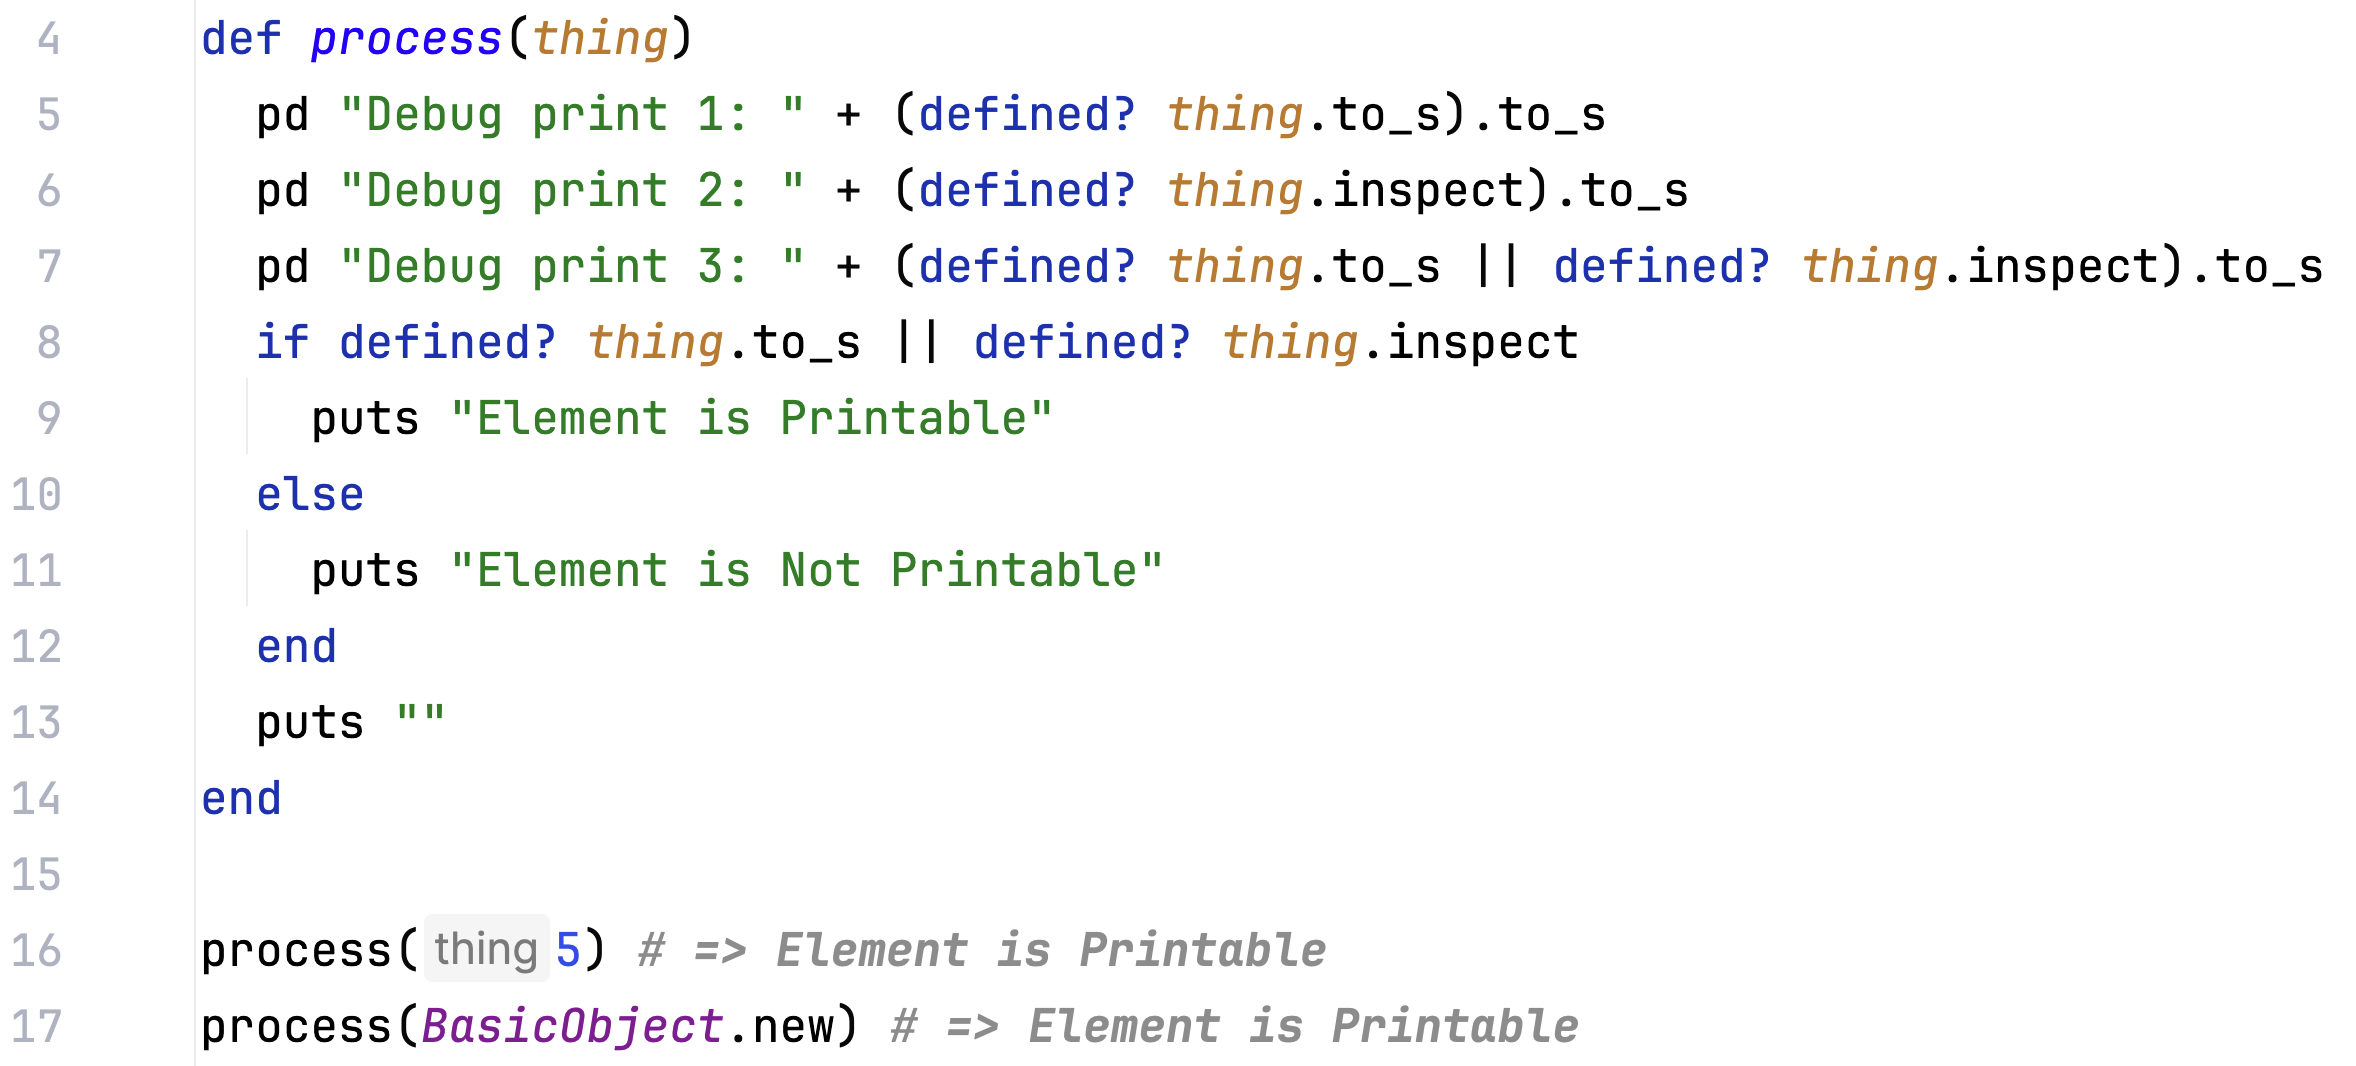
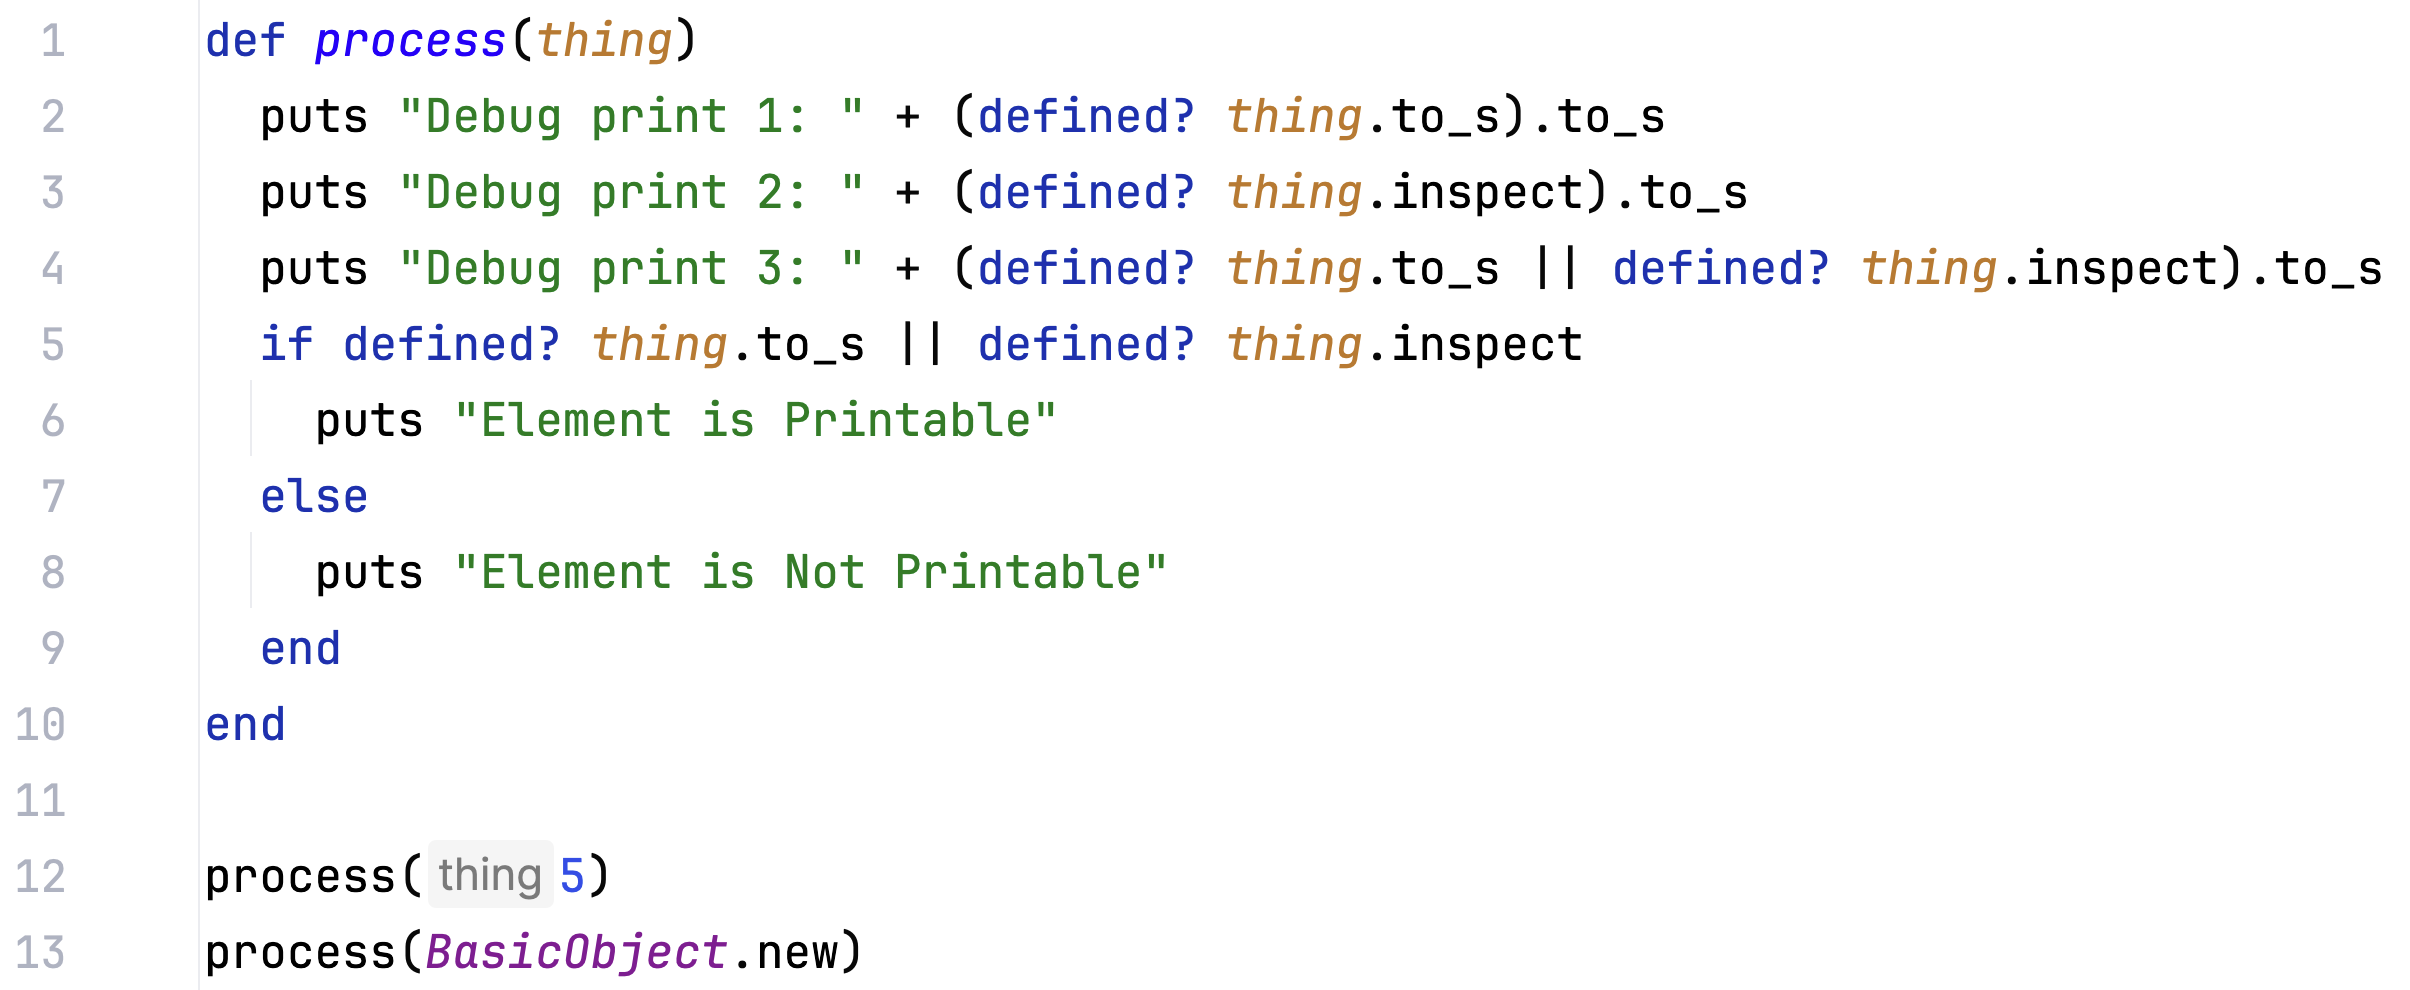
Preparation steps

diff --git a/src/presentation_samples/1_example_with_bug/3_example_define_prints.rb b/src/presentation_samples/1_example_with_bug/3_example_define_prints.rb
@@ -1,7 +1,9 @@
 def process(thing)
-  puts "Debug print 1: " + (defined? thing.to_s).to_s
-  puts "Debug print 2: " + (defined? thing.inspect).to_s
-  puts "Debug print 3: " + (defined? thing.to_s || defined? thing.inspect).to_s
+  puts "Debug print 1: #{defined? thing.to_s}"
+  puts "Debug print 2: #{defined? thing.inspect}"
+  puts "Debug print 3: #{
+    defined? thing.to_s || defined? thing.inspect
+  }"
   if defined? thing.to_s || defined? thing.inspect
     puts "Element is Printable"
   else

diff --git a/src/presentation_samples/3_iseq/1_iseq_example.rb b/src/presentation_samples/3_iseq/1_iseq_example.rb
@@ -2,7 +2,9 @@ def say_hello
   puts "Hello EuRuKo2024!"
 end
 
-iseq = RubyVM::InstructionSequence.of(method(:say_hello))
+method_object = method(:say_hello)
+iseq = RubyVM::InstructionSequence.of(method_object)
+
 puts iseq.disasm
 
 

diff --git a/src/presentation_samples/2_tracepoint/1_tracepoint_example.rb b/src/presentation_samples/2_tracepoint/1_tracepoint_example.rb
@@ -7,6 +7,10 @@ TracePoint.new(:call) do |tp|
 end.enable
 
 say_hello
+# => Calling method 'say_hello'
+# => Hello EuRuKo2024!
+
+
 
 
 
